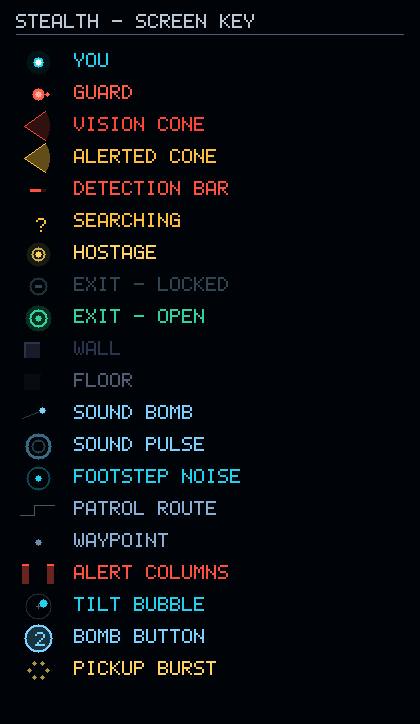
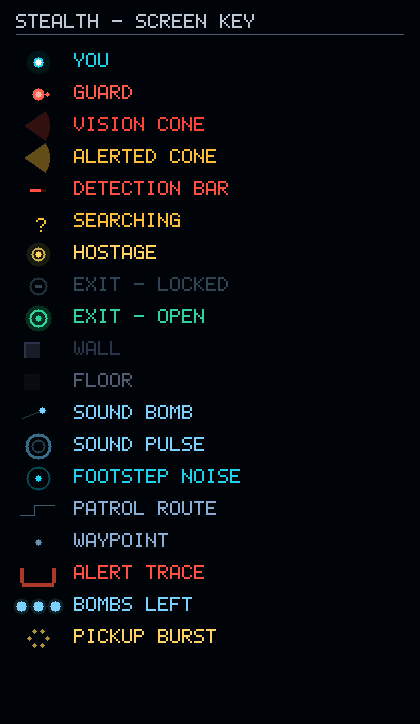
Unlined vision cones, bombs as dots on the top edge
- Vision cones lose their bright leading edges. The translucent wedge alone
  carries the shape, and the hard outline made a cone read as a solid object
  rather than as light falling across the floor
- The bomb readout moves from a circle in the bottom-right corner to small
  blue dots centred on the top edge, one per bomb remaining. They sit at
  y=20, inside the alert trace that runs along y=4 and clear of the rounded
  corners, so the two never collide even at full alert

docs/legend.png regenerated to match: the cone icon is unlined, BOMB BUTTON
is now BOMBS LEFT drawn as dots, ALERT COLUMNS is now ALERT TRACE, and the
tilt bubble entry is gone since that indicator was removed earlier.

Changed region(s): [[0.031, 0.7597, 0.5262, 0.942]]

diff --git a/tools/host/legend.c b/tools/host/legend.c
@@ -57,10 +57,6 @@ static void cone_icon(int cx, int cy, uint16_t col, uint32_t a)
         n++;
     }
     gfx_blend_poly(&S, p, n, col, a);
-    gfx_line(&S, cx, cy, (int)(cx + cosf(start) * 26.0f),
-                         (int)(cy + sinf(start) * 26.0f), col);
-    gfx_line(&S, cx, cy, (int)(cx + cosf(start + fov) * 26.0f),
-                         (int)(cy + sinf(start + fov) * 26.0f), col);
 }
 
 int main(int argc, char **argv)
@@ -168,25 +164,20 @@ int main(int argc, char **argv)
 
     // --- persistent overlays ---
     y = row_y(i) + 14;
-    gfx_blend_rect(&S, ICON_X - 16, y - 10, 7, 20, COL_ALERT, 14);
-    gfx_blend_rect(&S, ICON_X - 16, y - 10, 7, 2, COL_ALERT, GFX_ALPHA_MAX);
-    gfx_blend_rect(&S, ICON_X + 9, y - 10, 7, 20, COL_ALERT, 14);
-    gfx_blend_rect(&S, ICON_X + 9, y - 10, 7, 2, COL_ALERT, GFX_ALPHA_MAX);
-    label(i++, "ALERT COLUMNS", COL_ALERT);
+    // The alert meter as it appears: a trace following the panel outline.
+    gfx_blend_rect(&S, ICON_X - 16, y + 9, 32, 4, COL_ALERT, 22);
+    gfx_blend_rect(&S, ICON_X - 18, y - 6, 4, 15, COL_ALERT, 22);
+    gfx_blend_rect(&S, ICON_X + 14, y - 6, 4, 15, COL_ALERT, 22);
+    label(i++, "ALERT TRACE", COL_ALERT);
 
     y = row_y(i) + 14;
-    gfx_ring(&S, ICON_X, y, 13, 1, COL_TEXT_DIM, 14);
-    gfx_fill_rect(&S, ICON_X - 2, y, 5, 1, COL_TEXT_DIM);
-    gfx_fill_rect(&S, ICON_X, y - 2, 1, 5, COL_TEXT_DIM);
-    gfx_fill_circle(&S, ICON_X + 5, y - 3, 4, COL_PLAYER);
-    label(i++, "TILT BUBBLE", COL_PLAYER);
-
     y = row_y(i) + 14;
-    gfx_blend_circle(&S, ICON_X, y, 14, RGB565(4, 6, 10), 22);
-    gfx_blend_circle(&S, ICON_X, y, 14, COL_SOUND, 8);
-    gfx_ring(&S, ICON_X, y, 14, 2, COL_SOUND, GFX_ALPHA_MAX);
-    gfx_text(&S, ICON_X - 3, y - 6, "2", COL_SOUND, 2);
-    label(i++, "BOMB BUTTON", COL_SOUND);
+    for (int k = 0; k < 3; k++) {
+        const int cx = ICON_X - 17 + k * 17;
+        gfx_blend_circle(&S, cx, y, 8, COL_SOUND, 5);
+        gfx_fill_circle(&S, cx, y, 5, COL_SOUND);
+    }
+    label(i++, "BOMBS LEFT", COL_SOUND);
 
     y = row_y(i) + 14;
     for (int k = 0; k < 6; k++) {

diff --git a/main/hud.c b/main/hud.c
@@ -20,9 +20,11 @@
 #define TOAST_W       268
 #define TOAST_H       104
 
-#define BOMB_PIP_X    (PLAY_W - 38)
-#define BOMB_PIP_Y    (PLAY_H - 36)
-#define BOMB_PIP_R    23
+// Bombs read as dots along the top edge, clear of the alert trace that runs
+// just outside them and of the rounded corners.
+#define BOMB_DOT_Y    20
+#define BOMB_DOT_R    5
+#define BOMB_DOT_GAP  17
 
 #define MENU_W        328
 #define MENU_H        382
@@ -427,16 +429,17 @@ void hud_render(gfx_surf_t *s, const game_t *g)
     draw_reveal_label(s, g);
 
     if (g->phase != GS_TITLE && g->phase != GS_WIN) {
-        char buf[32];
-
-        // Bottom-right: bombs remaining. A readout, not a control - throwing
-        // is a tap on the field now.
-        const bool usable = (g->bombs_left > 0);
-        const uint16_t bc = usable ? COL_SOUND : COL_TEXT_DIM;
-        gfx_blend_circle(s, BOMB_PIP_X, BOMB_PIP_Y, BOMB_PIP_R, RGB565(4, 6, 10), 20);
-        gfx_ring(s, BOMB_PIP_X, BOMB_PIP_Y, BOMB_PIP_R, 2, bc, usable ? 26 : 12);
-        snprintf(buf, sizeof(buf), "%d", g->bombs_left);
-        gfx_text_centered(s, BOMB_PIP_X, BOMB_PIP_Y - 10, buf, bc, 3);
+        // Bombs remaining, centred on the top edge.
+        const int n = g->bombs_left;
+        if (n > 0) {
+            const int span = (n - 1) * BOMB_DOT_GAP;
+            const int x0   = PLAY_W / 2 - span / 2;
+            for (int i = 0; i < n; i++) {
+                const int cx = x0 + i * BOMB_DOT_GAP;
+                gfx_blend_circle(s, cx, BOMB_DOT_Y, BOMB_DOT_R + 3, COL_SOUND, 5);
+                gfx_fill_circle(s, cx, BOMB_DOT_Y, BOMB_DOT_R, COL_SOUND);
+            }
+        }
     }
 
     draw_toast(s);

diff --git a/main/render.c b/main/render.c
@@ -184,16 +184,11 @@ void game_render_prepare(const game_t *g)
 }
 
 // Filled as one polygon so adjacent triangles never double-blend into seams.
-static void draw_cone(gfx_surf_t *s, const guard_t *gd, int idx)
+// No outline: the wedge alone carries the shape, and hard edges made the cone
+// read as a solid object rather than as light falling on the floor.
+static void draw_cone(gfx_surf_t *s, int idx)
 {
     gfx_blend_poly(s, s_cone[idx].pts, s_cone[idx].n, s_cone[idx].col, s_cone[idx].alpha);
-
-    // Bright leading edges make the exact reach of the cone readable. The
-    // first and last fan points are already those endpoints.
-    const gfx_pt_t *p = s_cone[idx].pts;
-    const int last = s_cone[idx].n - 1;
-    gfx_line(s, (int)gd->x, (int)gd->y, (int)p[1].x, (int)p[1].y, s_cone[idx].col);
-    gfx_line(s, (int)gd->x, (int)gd->y, (int)p[last].x, (int)p[last].y, s_cone[idx].col);
 }
 
 static void draw_guard_body(gfx_surf_t *s, const game_t *g, const guard_t *gd)
@@ -402,7 +397,7 @@ void game_render(gfx_surf_t *s, const game_t *g)
         draw_walls(s, g);
         draw_exit(s, g);
 
-        for (int i = 0; i < g->guard_count; i++) draw_cone(s, &g->guards[i], i);
+        for (int i = 0; i < g->guard_count; i++) draw_cone(s, i);
 
         // Above the cones. A guard faces along its own patrol axis, so its
         // cone lies directly over its route - drawing the line underneath

diff --git a/README.md b/README.md
@@ -113,7 +113,8 @@ Every on-screen element, rendered from the game's own palette and rasteriser:
 The game uses the whole 368x448 panel — there is no HUD strip. The play field
 is 23x28 tiles at 16px, which fills the panel exactly. The handful of things
 that must stay visible float over the field instead of taking a band from it:
-bombs remaining bottom-right, and the alert meter tracing the panel outline.
+bombs remaining as dots on the top edge, and the alert meter tracing the
+panel outline.
 
 The panel is a rounded rectangle, not the square its framebuffer implies:
 28.70mm of glass across 368px is 12.8px/mm, and the corner measures about 4mm,
